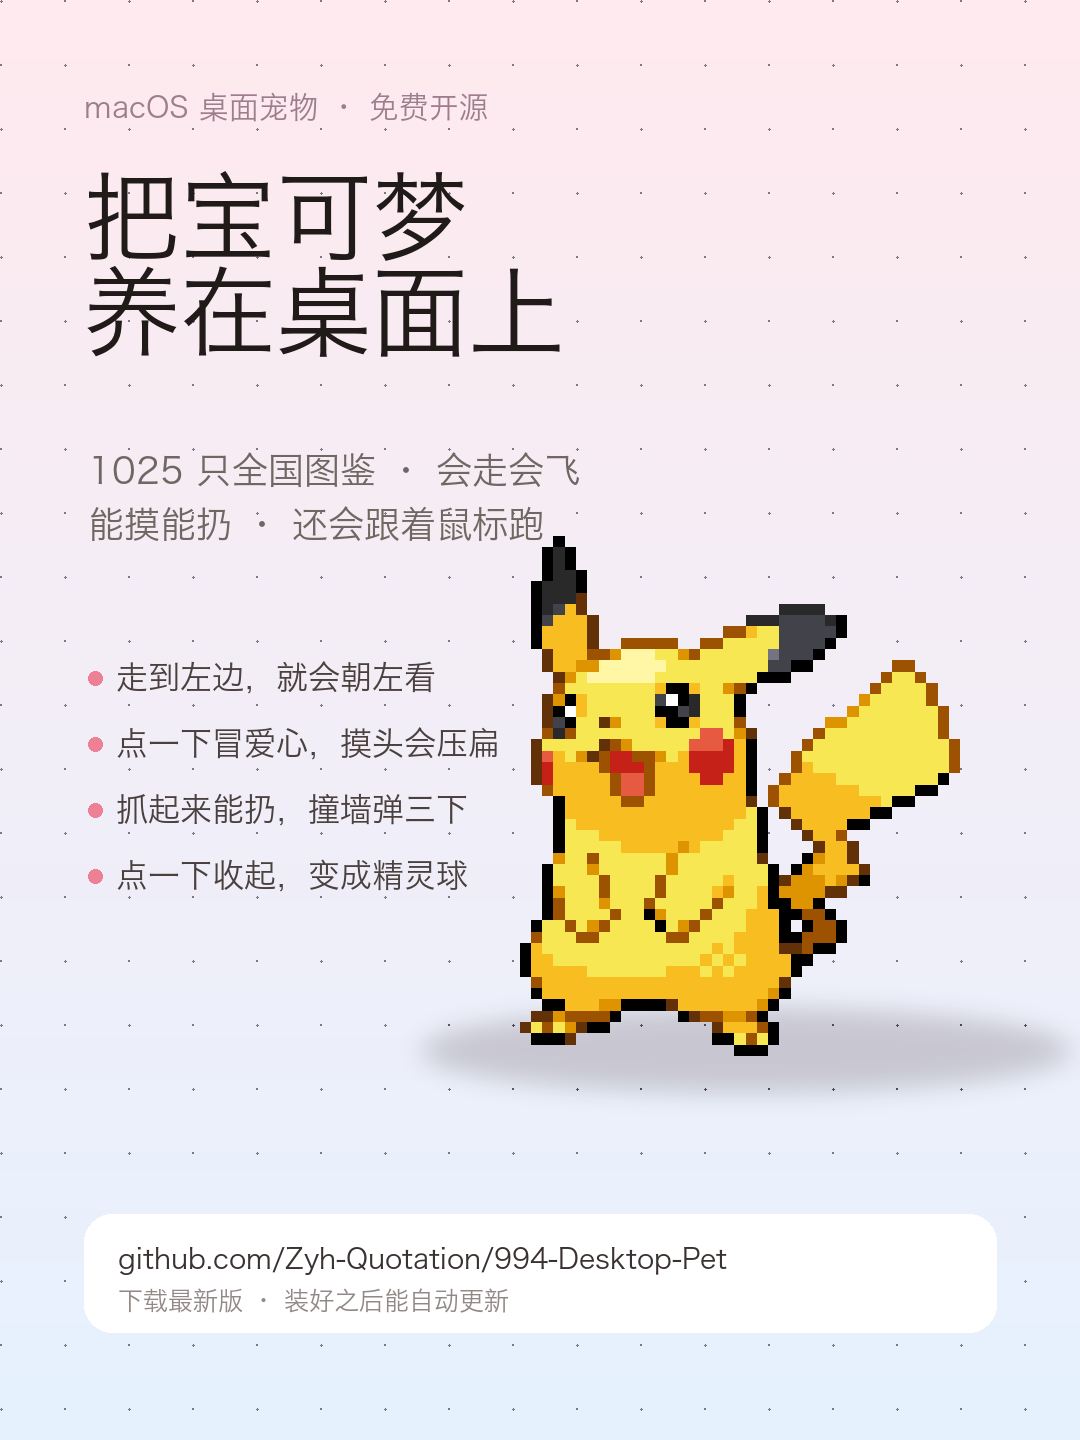
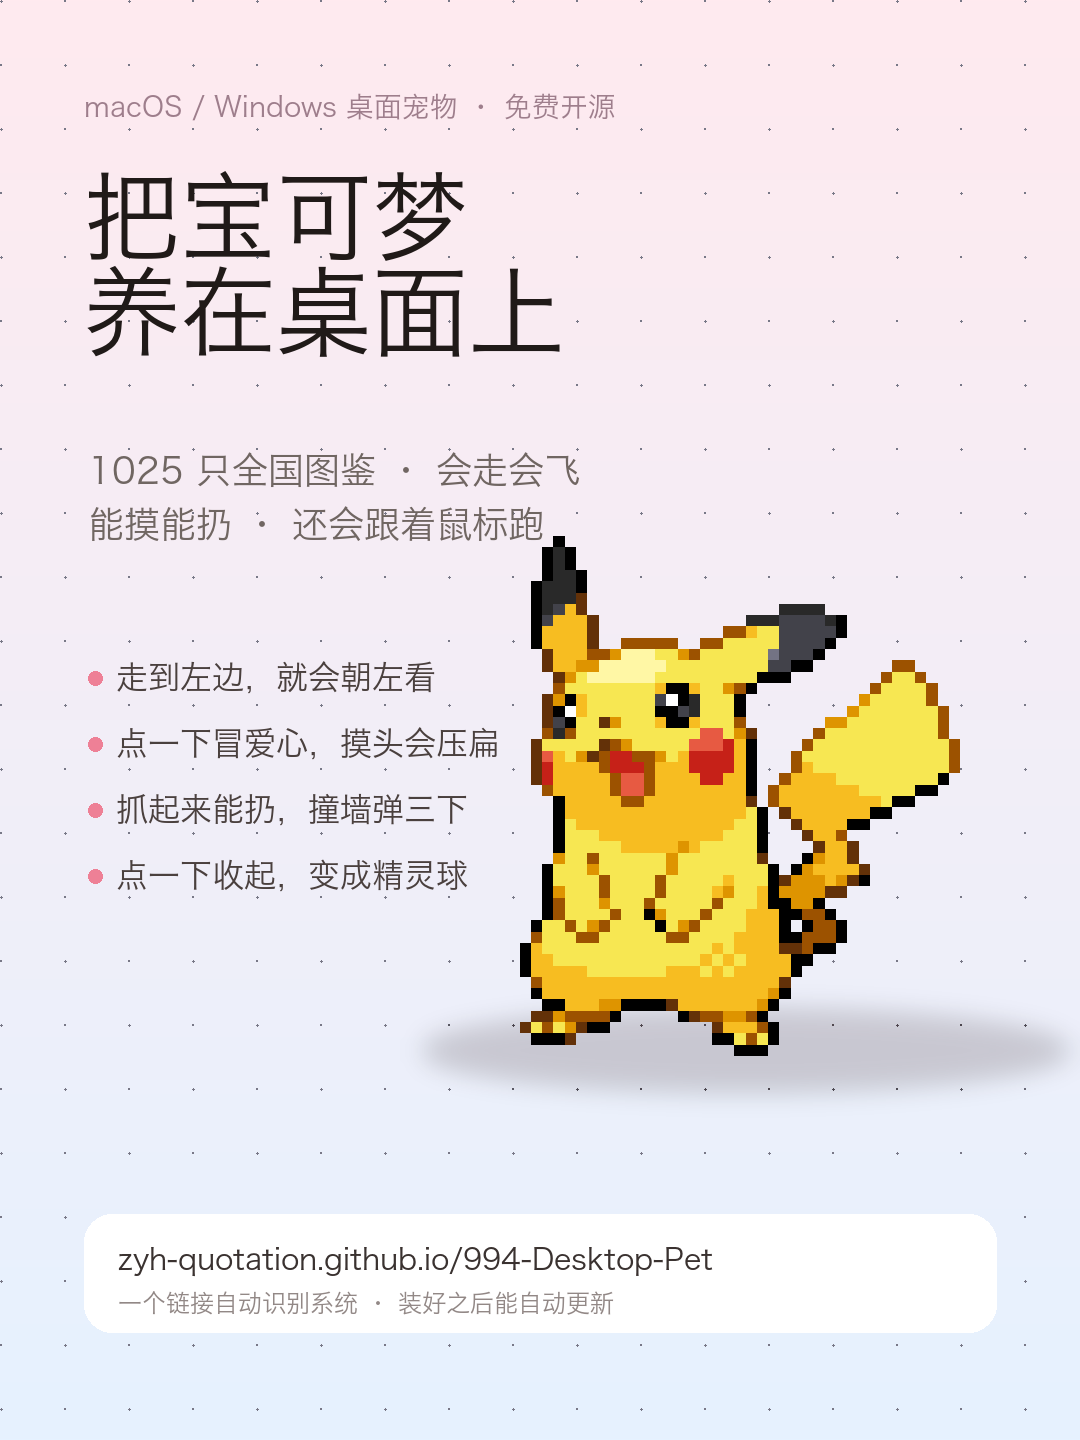
文档与宣传图补上 Windows 版

Changed region(s): [[0.0917, 0.8438, 0.6111, 0.9375], [0.0917, 0.0625, 0.5806, 0.0938], [0.6111, 0.8438, 0.6722, 0.875]]

diff --git a/promo/文案.md b/promo/文案.md
@@ -2,8 +2,8 @@
 
 配图在 `promo/` 里：`01-封面.png` / `02-玩法.png` / `03-图鉴.png` / `04-故事卡.png`，都是 1080×1440（小红书 3:4 正好）。
 
-下载链接（每条都要带）：
-`https://github.com/Zyh-Quotation/994-Desktop-Pet/releases/latest`
+下载链接（每条都要带，自动识别系统）：
+`https://zyh-quotation.github.io/994-Desktop-Pet/`
 
 ---
 
@@ -39,7 +39,7 @@
 
 最上头的是换宝可梦：全国图鉴 1025 只，按属性、世代、名字搜，点进化链上任意一只就能换。换的时候弹一张卡片，写着它住哪、多高多重、图鉴原文——165 只传说和幻兽也都在里面。
 
-用 Electron 写的，免费开源，**macOS / Apple 芯片**。装好之后能自动更新，不用再折腾。
+用 Electron 写的，免费开源，**macOS / Windows 都支持**。装好之后能自动更新，不用再折腾。
 
 第一次打开要「右键 → 打开」一下（没买苹果开发者签名，系统会拦一下），之后正常双击。
 
@@ -62,9 +62,9 @@
 
 会飞的能升空，下雨天懒得动，深夜会打盹，饿了会自己冒话。
 
-免费开源，macOS（Apple 芯片）能用，装好之后自动更新。第一次打开记得右键 → 打开。
+免费开源，macOS 和 Windows 都能用，装好之后自动更新。第一次打开记得右键 → 打开。
 
-下载：https://github.com/Zyh-Quotation/994-Desktop-Pet/releases/latest
+下载：https://zyh-quotation.github.io/994-Desktop-Pet/
 
 ---
 
@@ -74,7 +74,7 @@
 
 会自己走来走去，摸了会冒爱心，收进精灵球还会晃三晃。全国图鉴 1025 只都能换，换的时候弹张小卡片写它住哪、多高。
 
-免费开源，Mac 能玩（Apple 芯片）。下载在这儿：github.com/Zyh-Quotation/994-Desktop-Pet
+免费开源，Mac 和 Windows 都能玩。下载在这儿：github.com/Zyh-Quotation/994-Desktop-Pet
 
 第一次打开要右键 → 打开，拦一下是正常的，没买苹果签名。
 
@@ -92,8 +92,8 @@
 · 时间天气联动：下雨懒得动、深夜打盹、饿了冒话
 · 支持多屏、开机自启、自动更新
 
-macOS / Apple 芯片，开源免费。
-下载：https://github.com/Zyh-Quotation/994-Desktop-Pet/releases/latest
+macOS / Windows，开源免费。
+下载：https://zyh-quotation.github.io/994-Desktop-Pet/
 
 ---
 
@@ -123,16 +123,17 @@ macOS / Apple 芯片，开源免费。
 
 ## 所有平台都要说的三件事
 
-1. **只支持 macOS + Apple 芯片**（Intel 不能跑，别答应 Intel 用户）
-2. 第一次打开要「右键 → 打开」，否则会提示「已损坏」
-3. 安装包约 200MB（1025 只精灵图 + 叫声都在里面），网盘传也行
+1. **Mac 只支持 Apple 芯片**（M1 及以后），Intel Mac 跑不了；Windows 要 10/11 64 位
+2. Mac 第一次打开要「右键 → 打开」，否则会提示「已损坏」；Windows 解压后双击 exe
+3. 安装包 Mac 约 200MB、Windows 约 227MB（1025 只精灵图 + 叫声都在里面）
+4. 一个链接自动识别系统：zyh-quotation.github.io/994-Desktop-Pet
 
 ---
 
 ## 评论区预置回复
 
 **Q：Windows 能用吗？**
-A：暂时只有 Mac 版，Windows 要重写窗口层，还没排上。
+A：能，同一个链接会自动识别给你 Windows 版。解压双击 TogepiPet.exe 就行。
 
 **Q：提示「已损坏，移到废纸篓」怎么办？**
 A：右键点 app → 打开 → 再点「打开」。或者终端跑 `xattr -dr com.apple.quarantine /Applications/神奇宝贝.app`。

diff --git a/README.md b/README.md
@@ -206,7 +206,8 @@ RELEASE_URL="https://你的地址/pokepet-0.2.0.zip" \
 ### 本项目的发布地址
 
 - 仓库：https://github.com/Zyh-Quotation/994-Desktop-Pet
-- 下载：https://github.com/Zyh-Quotation/994-Desktop-Pet/releases/latest
+- 下载页（自动识别 Mac / Windows）：https://zyh-quotation.github.io/994-Desktop-Pet/
+- 全部版本：https://github.com/Zyh-Quotation/994-Desktop-Pet/releases
 - 更新清单：https://github.com/Zyh-Quotation/994-Desktop-Pet/releases/latest/download/update.json
 
 发布只需：
@@ -231,3 +232,21 @@ GH_RELEASE=1 ./tools/publish.sh patch "说明"
 | 修 bug、调文案、换素材 | patch | 0.2.1 → 0.2.2 |
 | 加新功能 | minor | 0.2.1 → 0.3.0 |
 | 大改版、不兼容旧存档 | major | 0.3.4 → 1.0.0 |
+
+
+## Windows 版
+
+```bash
+NODE=/path/to/node bash tools/build-win.sh
+# → release/pokepet-<版本>-win-x64.zip（免安装，解压双击 TogepiPet.exe）
+```
+
+- 打的是 **win32-x64 便携版**，Electron 版本跟 Mac 一致
+- 目录和 exe 一律用 ASCII 名（中文名在 zip 里会变成乱码）
+- Windows 上不能替换正在运行的 exe，所以「检查更新」会打开下载页，手动覆盖
+- 发布时 `tools/publish.sh` 会自动带上 Windows 包（设 `SKIP_WIN=1` 可跳过）
+
+## 下载页
+
+`docs/index.html` 是 GitHub Pages 首页，读 GitHub API 拿最新 Release 的资产，
+按 UA 判断系统后把对应文件塞进主按钮。改完 push 就会自动发布。
